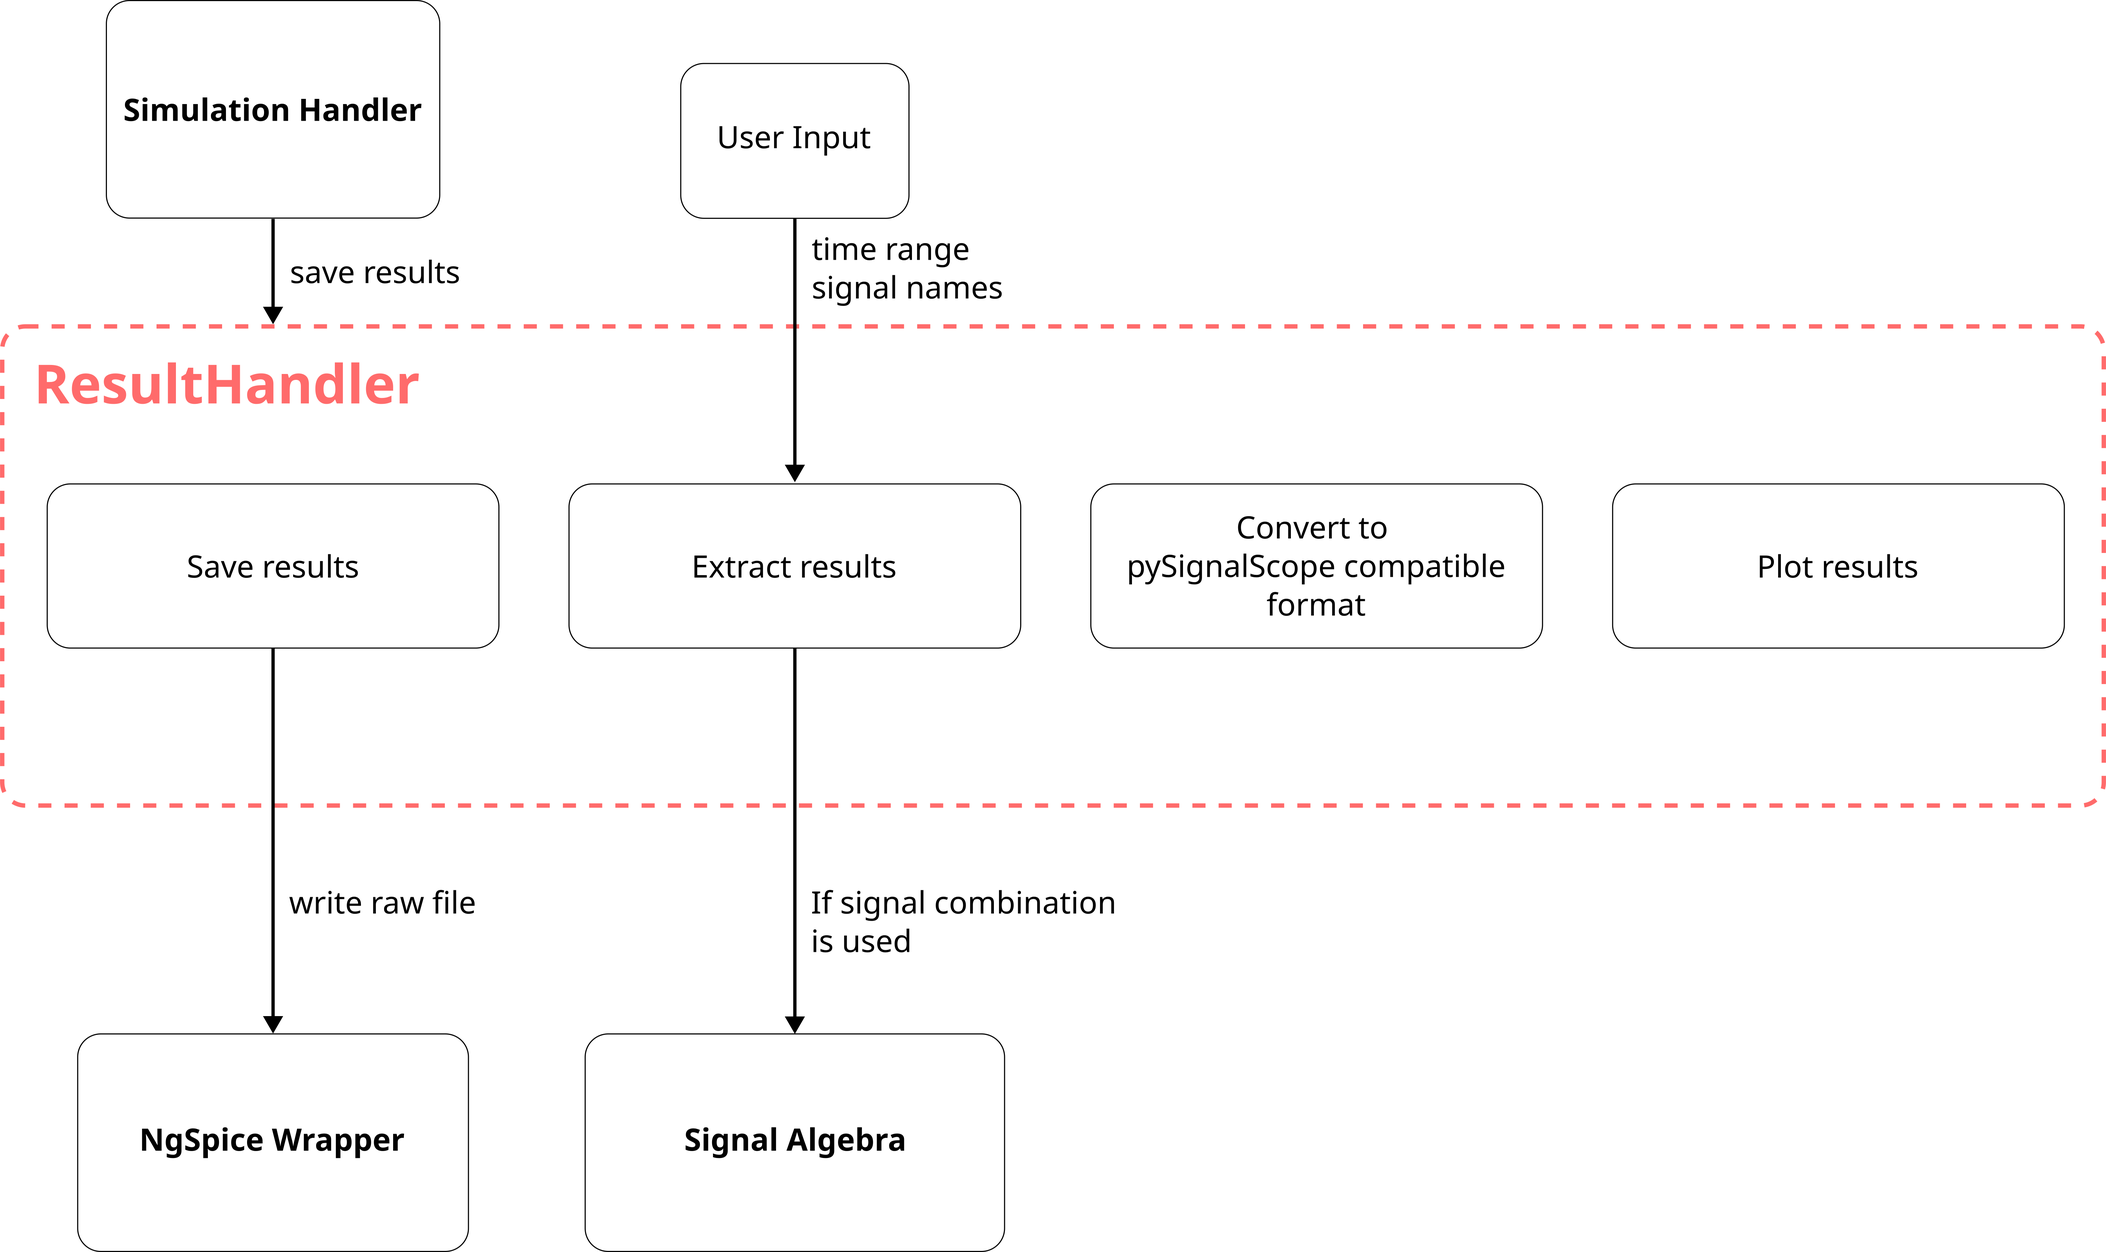
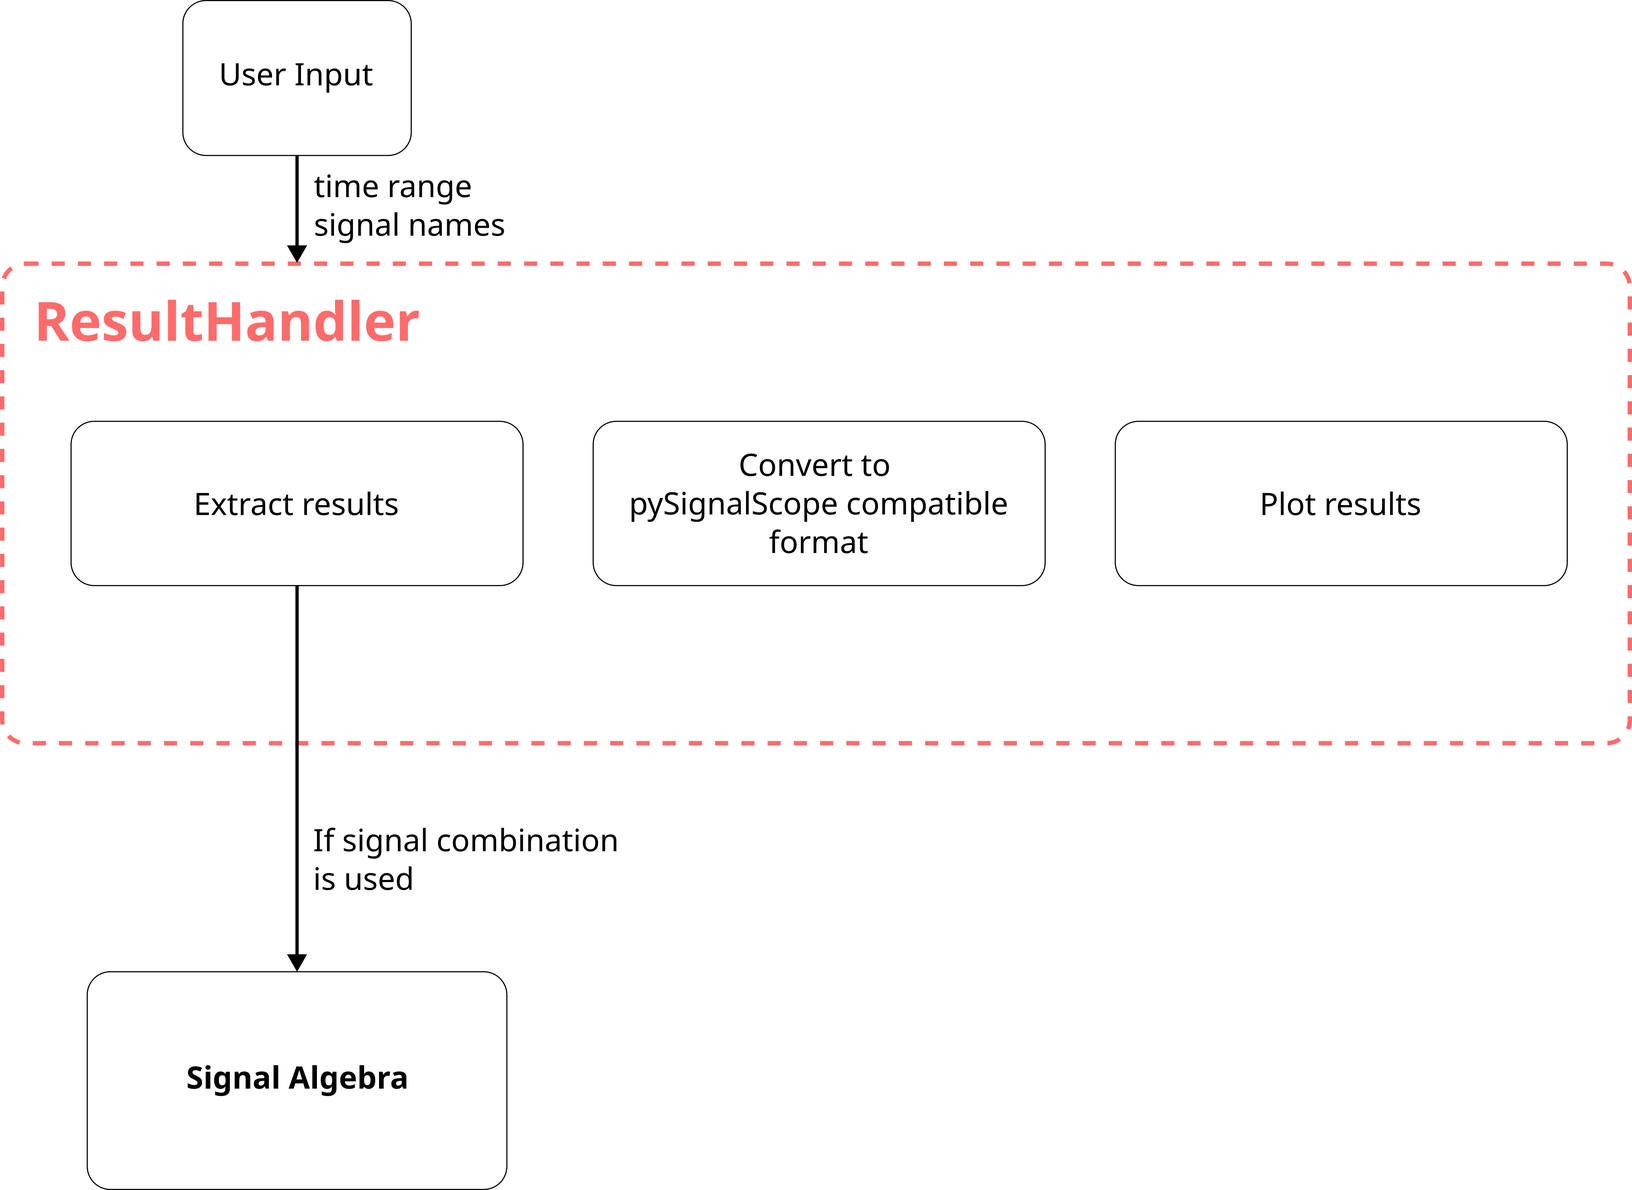
test check-in

diff --git a/prototype_v1/result_handler.py b/prototype_v1/result_handler.py
@@ -9,37 +9,155 @@ import logging
 from pathlib import Path
 
 # own libraries
+from dtos import SignalSetDto
 from ngspice_wrapper import NgspiceWrapper
 
 # 3rd party libraries
-
+import numpy as np
+from spicelib import RawRead
+from pysignalscope import Scope, Channel
 
 logging.basicConfig(level=logging.INFO)
 logger = logging.getLogger(__name__)
 
+
 class ResultHandler:
-    """Class that handles saving, viewing and analysis of simulation results."""
+    """Class that handles viewing and analysis of simulation results."""
 
-    def __init__(self):
-        """Create a 'results' directory in the current working directory."""
-        self._result_directory = Path.cwd() / "results"
-        self._result_directory.mkdir(parents=True, exist_ok=True)
+    _results_dir: Path  # Directory in which the raw result files are stored
+    _dialect: str  # Dialect of the simulator that created the raw files (e.g. "ngspice")
+    _raws: dict[str, RawRead]  # Opened raw files, keyed by run ID
+    _channels: dict[tuple[str, str], Channel]  # Cache of created channels, keyed by (run ID, trace name)
 
-    def save_raw_file(self, config_number: int, ngspice: NgspiceWrapper) -> Path:
+    def __init__(self, results_dir: Path, dialect: str = "ngspice"):
         """
-        Save raw file of the immediate simulation by communicating with ngspice.
-        
-        :param config_number: Configuration number of the configuration whose simulation is completed
+        Initialize the path to the raw files and the member variables of the ResultHandler class.
+        :param results_dir: Directory in which the raw result files are stored
+        :type results_dir: Path
+        :param dialect: Dialect of the simulator that created the raw files
+        :type dialect: str
+        """
+        self._results_dir = Path(results_dir)
+        if not self._results_dir.is_dir():
+            raise FileNotFoundError(f"Results directory does not exist: '{self._results_dir}'")
+
+        self._dialect = dialect
+        self._raws = {}
+        self._channels = {}
+
+    def load_run(self, circuit_name: str, config_number: int) -> str:
+        """
+        Load the raw result file of a configuration.
+        :param circuit_name: Name of the original schematic circuit file
+        :type circuit_name: str
+        :param config_number: Configuration number of the simulated configuration
         :type config_number: int
-        :param ngspice: NgspiceWrapper object to allow communication with ngspice_wrapper library
-        :type ngspice: NgspiceWrapper
-        :return: File path of the save result
+        :return: Run ID, which is used to request signals of this run
+        :rtype: str
+        """
+        # Run ID follows the naming convention of the result files
+        run_id = f"{circuit_name}-config_{config_number}"
+
+        # Open the raw file only once
+        if run_id not in self._raws:
+            path = self._locate_file(run_id)
+            self._raws[run_id] = RawRead(str(path), dialect=self._dialect)
+
+        return run_id
+
+    def list_runs(self) -> list[str]:
+        """
+        List the run IDs of all loaded runs.
+        :return: Run IDs of the loaded runs
+        :rtype: list[str]
+        """
+        return list(self._raws)
+
+    def list_signals(self, run_id: str) -> list[str]:
+        """
+        List the trace names available in the raw file of a run (without the time axis).
+        :param run_id: Run ID returned by load_run
+        :type run_id: str
+        :return: Trace names available in the run
+        :rtype: list[str]
+        """
+        raw = self._get_raw(run_id)
+
+        return [name for name in raw.get_trace_names() if name.lower() != "time"]
+
+    def get_channel(self, run_id: str, trace_name: str) -> Channel:
+        """
+        Get a signal of a run as a PySignalScope channel.
+        :param run_id: Run ID returned by load_run
+        :type run_id: str
+        :param trace_name: Trace name as listed by list_signals (e.g. "I(l1)")
+        :type trace_name: str
+        :return: Channel holding the time axis and the values of the signal
+        :rtype: Channel
+        """
+        raw = self._get_raw(run_id)
+        key = (run_id, trace_name)
+
+        # Create the channel only on first request
+        if key not in self._channels:
+            values = raw.get_trace(trace_name).get_wave()
+            time = raw.get_axis()
+
+            self._channels[key] = Scope.from_numpy(
+                np.array([time, values], dtype=np.float64),
+                mode="time",
+                label=f"{trace_name} | {run_id}",
+                unit=self._unit_of(trace_name),
+            )
+
+        return self._channels[key]
+
+    def get_channels(self, requests: list[tuple[str, str]]) -> list[Channel]:
+        """
+        Get several signals as PySignalScope channels.
+        :param requests: List of (run ID, trace name) pairs
+        :type requests: list[tuple[str, str]]
+        :return: Channels in the order of the requests
+        :rtype: list[Channel]
+        """
+        return [self.get_channel(run_id, trace_name) for run_id, trace_name in requests]
+
+    def _get_raw(self, run_id: str) -> RawRead:
+        """
+        Get the opened raw file of a run.
+        :param run_id: Run ID returned by load_run
+        :type run_id: str
+        :return: Opened raw file
+        :rtype: RawRead
+        """
+        if run_id not in self._raws:
+            raise RuntimeError(f"Run '{run_id}' is not loaded. Loaded runs: {self.list_runs()}")
+
+        return self._raws[run_id]
+
+    @staticmethod
+    def _unit_of(trace_name: str) -> str:
+        """
+        Derive the unit of a signal from its trace name.
+        :param trace_name: Trace name (e.g. "V(vout)" or "I(l1)")
+        :type trace_name: str
+        :return: "V" for voltages, "A" for currents, otherwise an empty string
+        :rtype: str
+        """
+        prefix = trace_name[:1].upper()
+
+        return {"V": "V", "I": "A"}.get(prefix, "")
+
+    def _locate_file(self, run_id: str) -> Path:
+        """
+        Build the path of the raw file of a run and check that it exists.
+        :param run_id: Run ID, which equals the file name without extension
+        :type run_id: str
+        :return: File path of the raw file
         :rtype: Path
         """
-        # File path variable declaration
-        raw_file = (self._result_directory / f"config_{config_number}.raw")
+        path = self._results_dir / f"{run_id}.raw"
+        if not path.is_file():
+            raise FileNotFoundError(f"Result file not found: '{path}'")
 
-        # Communicate with ngspice_wrapper library to write results to raw file
-        ngspice.command(f"write {raw_file}")
-
-        return Path(raw_file)
+        return path

diff --git a/prototype_v1/simulation_handler.py b/prototype_v1/simulation_handler.py
@@ -7,10 +7,10 @@ Finally, it handles the simulation runs.
 
 # python libraries
 import logging
+from pathlib import Path
 
 # own libraries
 from circuit_handler import CircuitHandler
-from result_handler import ResultHandler
 from ngspice_wrapper import NgspiceWrapper
 
 # 3rd party libraries
@@ -23,14 +23,16 @@ class SimulationHandler:
     """Class that handles simulation runs and communications with ngspice_wrapper library."""
 
     _circuit_handler: CircuitHandler  # CircuitHandler object allowing communication with CircuitHandler module
-    _result_handler: ResultHandler
     _ngspice: NgspiceWrapper  # NgspiceWrapper object allowing communication with ngspice_wrapper library
 
-    def __init__(self, circuit_handler: CircuitHandler, result_handler: ResultHandler):
+    def __init__(self, circuit_handler: CircuitHandler):
         """Initialize the member variables of the SimulationHandler class."""
         self._circuit_handler = circuit_handler
-        self._result_handler = result_handler
         self._ngspice = NgspiceWrapper()
+
+        # Create a 'results' directory in the current working directory.
+        self._result_directory = Path.cwd() / "results"
+        self._result_directory.mkdir(parents=True, exist_ok=True)
 
     def start_simulation_process(self, config_number: int) -> None:
         """
@@ -68,5 +70,24 @@ class SimulationHandler:
         self._ngspice.command(tran_cmd)
 
         # Save simulation results in a raw file
-        raw_result = self._result_handler.save_raw_file(config_number, self._ngspice)
+        raw_result = self._save_raw_file(config_info.circuit_name, config_number)
         logger.info(f"Results saved to: {raw_result}")
+
+    def _save_raw_file(self, circuit_name:str, config_number: int) -> Path:
+        """
+        Save raw file of the immediate simulation by communicating with ngspice.
+        
+        :param circuit_name: Name of the original schematic circuit file
+        :type circuit_name: str
+        :param config_number: Configuration number of the configuration whose simulation is completed
+        :type config_number: int
+        :return: File path of the save result
+        :rtype: Path
+        """
+        # File path variable defining the naming convention of result files
+        raw_file = (self._result_directory / f"{circuit_name}-config_{config_number}.raw")
+
+        # Communicate with ngspice_wrapper library to write results to raw file
+        self._ngspice.command(f"write {raw_file}")
+
+        return Path(raw_file)

diff --git a/prototype_v1/ngspice_ctl.py b/prototype_v1/ngspice_ctl.py
@@ -8,6 +8,7 @@ It communicates with other modules such as Circuit Handler, Simulation Handler, 
 # python libraries
 import logging
 from typing import List
+from pathlib import Path
 
 # own libraries
 from dtos import ConfigInfoDto, UserRequestDto
@@ -16,7 +17,7 @@ from simulation_handler import SimulationHandler
 from result_handler import ResultHandler
 
 # 3rd party libraries
-
+from pysignalscope import Scope
 
 logging.basicConfig(level=logging.INFO)
 logger = logging.getLogger(__name__)
@@ -30,8 +31,8 @@ class SessionHandler:
 
     def __init__(self):
         self._circuit_handler = CircuitHandler()
-        self._result_handler = ResultHandler()
-        self._simulation_handler = SimulationHandler(self._circuit_handler, self._result_handler)
+        # self._result_handler = ResultHandler()
+        self._simulation_handler = SimulationHandler(self._circuit_handler)
 
     def start_workflow(self, request: UserRequestDto) -> None:
         """
@@ -70,9 +71,13 @@ if __name__ == "__main__":
     # Also replace the path to the library in the test_circuit.cir
     request.circuit_path = "prototype_v1/circuit_files/test_circuit.cir"
 
+    # Variable declaration
+    circuit_name = Path(request.circuit_path).stem
+
     # Circuit configuration parameters list
     request.configurations = [
         ConfigInfoDto(
+            circuit_name=circuit_name,
             config_number=1,
             config_parameters={"R1": "1k", "C1": "100u"},
             config_path=request.circuit_path,
@@ -81,8 +86,9 @@ if __name__ == "__main__":
             sim_time="3m"
         ),
         ConfigInfoDto(
+            circuit_name=circuit_name,
             config_number=2,
-            config_parameters={"R1": "2k", "C1": "200u"},
+            config_parameters={"R1": "100k", "C1": "2000u"},
             config_path=request.circuit_path,
             sim_type="tran",
             sim_time_step="10u",
@@ -94,3 +100,15 @@ if __name__ == "__main__":
 
     session = SessionHandler()
     session.start_workflow(request)
+
+    # View results
+    handler = ResultHandler(r"/home/tatsat/whb/github/pyNgSpiceLab/results")
+
+    a = handler.load_run("test_circuit", 1)
+    b = handler.load_run("test_circuit", 2)
+
+    print(handler.list_signals(a))     # the user sees what exists, then chooses
+    print(handler.list_signals(b))     # may differ from run a
+
+    channels = handler.get_channels([(a, "V(dc_1)"), (a, "V(load)"), (b, "V(dc_1)"), (b, "V(load)")])
+    Scope.plot_channels(channels)

diff --git a/prototype_v1/dtos.py b/prototype_v1/dtos.py
@@ -11,11 +11,13 @@ from typing import Dict, List
 # own libraries
 
 # 3rd party libraries
+import numpy as np
 
 @dataclass
 class ConfigInfoDto:
     """Contains circuit configuration information."""
 
+    circuit_name: str  # name of the original schematic circuit file
     config_number: int
     config_parameters: Dict[str, str]
     config_path: str  # adapted schematic file path with adapter libraries for a configuration
@@ -29,3 +31,13 @@ class UserRequestDto:
 
     circuit_path: str = ""  # main schematic file path for a circuit topology
     configurations: List[ConfigInfoDto] = field(default_factory=list)
+
+@dataclass
+class SignalSetDto:
+    """Neutral representation of the one time-series signal."""
+
+    circuit_name: str  # name of the original schematic circuit file
+    config_number: int
+    signals: dict[str, np.ndarray]  # name of the signal
+    units: dict[str, str]  # unit of the signal
+    time: np.ndarray

diff --git a/docs/SoftwareDesign/SimulationHandler_SDD.md b/docs/SoftwareDesign/SimulationHandler_SDD.md
@@ -1,10 +1,10 @@
 # **SimulationHandler: Software Design Document**
 
 ## **SimulationHandler: Software Design Overview**
-The SimulationHandler manages the simulation tasks for the circuits and its configurations. It also handles the communication with the ngspice_wrapper library. Via this communication, the SimulationHandler can load the circuit schematic into the ngspice and also help altering the values of the components in the schematic. It also communicates with the CircuitHandler module to ask for the circuit information. For dynamic stopping and saving the results, it communicates with the TriggerHandler and ResultHandler module respectively.
+The SimulationHandler manages the simulation tasks for the circuits and its configurations. It also handles the communication with the ngspice_wrapper library. Via this communication, the SimulationHandler can load the circuit schematic into the ngspice and also help altering the values of the components in the schematic. It also communicates with the CircuitHandler module to ask for the circuit information. For dynamic stopping, it communicates with the TriggerHandler module.
 
 ## Description of the SimulationHandler
-The SimulationHandler module shall be realized in the form of a class. The simulation functionalities will be triggered by the SessionHandler module. The SimulationHandler then receive only the circuit configuration number from the SessionHandler. Rest of the details of the circuit will be asked from the CircuitHandler. Once the information is received, the SimulationHandler uses ngspice_wrapper to load the circuit schematic into the ngspice. It also handles altering of the values if needed for a configuration. It proceeds to running the simulation based on the simulation parameters in the information provided by the CircuitHandler. If the simulation is successful, the results will be saved in local storage with the help of the ResultHandler.
+The SimulationHandler module shall be realized in the form of a class. The simulation functionalities will be triggered by the SessionHandler module. The SimulationHandler then receive only the circuit configuration number from the SessionHandler. Rest of the details of the circuit will be asked from the CircuitHandler. Once the information is received, the SimulationHandler uses ngspice_wrapper to load the circuit schematic into the ngspice. It also handles altering of the values if needed for a configuration. It proceeds to running the simulation based on the simulation parameters in the information provided by the CircuitHandler. If the simulation is successful, the results will be saved in local storage.
 
 ## Program Workflow
 
@@ -20,7 +20,8 @@ The SimulationHandler then loads the circuit configuration into **ngspice** thro
 
 The SimulationHandler then constructs the simulation command using the simulation parameters, such as `sim_type`, `sim_time`, and `sim_time_step`. The command is passed to the `ngspice_wrapper` to start the simulation.
 
-The simulation results are collected and saved by the **ResultHandler** as a raw result file in local storage. If the simulation fails or encounters an error, the error shall be logged and, where applicable, reported to the user.
+The SimulationHandler shall create and maintain a directory in the local storage that contains all the results. Since the saving of the results will be initialized by the SimulationHandler, the `circuit_name` and `config_number` is extracted from **ConfigInfoDto**. This information is used in naming of the raw file for easy identification. Currently the naming convention is set to the following:
+*circuit_name-config_number.raw*
 
 The simulation is executed in **background mode**, using the background simulation functionality provided by ngspice. This allows the Python application and other components of **pyNgSpiceLab** to continue performing other tasks while the simulation is running.
 

diff --git a/docs/SoftwareDesign/ResultHandler_SDD.md b/docs/SoftwareDesign/ResultHandler_SDD.md
@@ -1,14 +1,11 @@
 # **ResultHandler: Software Design Document**
 
 ## **ResultHandler: Software Design Overview**
-The ResultHandler module manages the simulation results related functionalities. It helps user to save, review, analyze and plot the results. The results are stored in the local storage as a raw file. The ResultHandler uses a 3rd party library spicelib to read these raw files easily.
+The ResultHandler module manages the simulation results related functionalities. It helps user to review, analyze and visualize the results. The results are stored in the local storage as a raw file. The ResultHandler uses a 3rd party library spicelib to read these raw files easily.
 
 ## **Description of the ResultHandler**
-The ResultHandler module shall be realized in the form of a class. This module contains APIs that the user or other modules in the pyNgSpiceLab can use. For example, the SessionHandler uses this module to save the results into a raw file after the simulation is finished. Other methods shall fulfill the requirements like extracting a signal from a saved result given a time range and the signal name, plotting the results, converting the plot format to standards of pySignalScope library.
-The `ResultHandler` shall be implemented as a class that manages simulation results. The class shall maintain the information required to locate and access the result files associated with completed simulations. The `ResultHandler` shall provide a public interface for saving simulation results, retrieving signal data, and preparing data for visualization. The `ResultHandler` shall be initialized by the `SessionHandler` and made available to the modules that require access to simulation results. The class shall keep result file management, data extraction, and plot data preparation within its own responsibilities.
-
-## **Storage of results**
-The ResultHandler shall create and maintain a directory in the local storage that contains all the results. Since the saving of the results will be initialized by the SimulationHandler, the `config_number` is provided to the ResultHandler. This information is used in naming of the raw file for easy identification. 
+The ResultHandler module shall be realized in the form of a class. This module contains APIs that the user or other modules in the pyNgSpiceLab can use. The methods shall fulfill the requirements like extracting a signal from a saved result given a time range and the signal name, plotting the results, converting the plot format to standards of pySignalScope library.
+The `ResultHandler` shall be implemented as a class that manages simulation results. The class shall maintain the information required to locate and access the result files associated with completed simulations. The `ResultHandler` shall provide a public interface for retrieving signal data, and preparing data for visualization. The `ResultHandler` shall be initialized by the `SessionHandler` and made available to the modules that require access to simulation results.
 
 ## **Accessing the results**
 The user can access the results by simply calling the API method for reading the raw file. The `RawRead` class from `spicelib` library helps with the reading of the raw files. The user shall provide the signal names and the time range to extract the part in which the user is interested.
